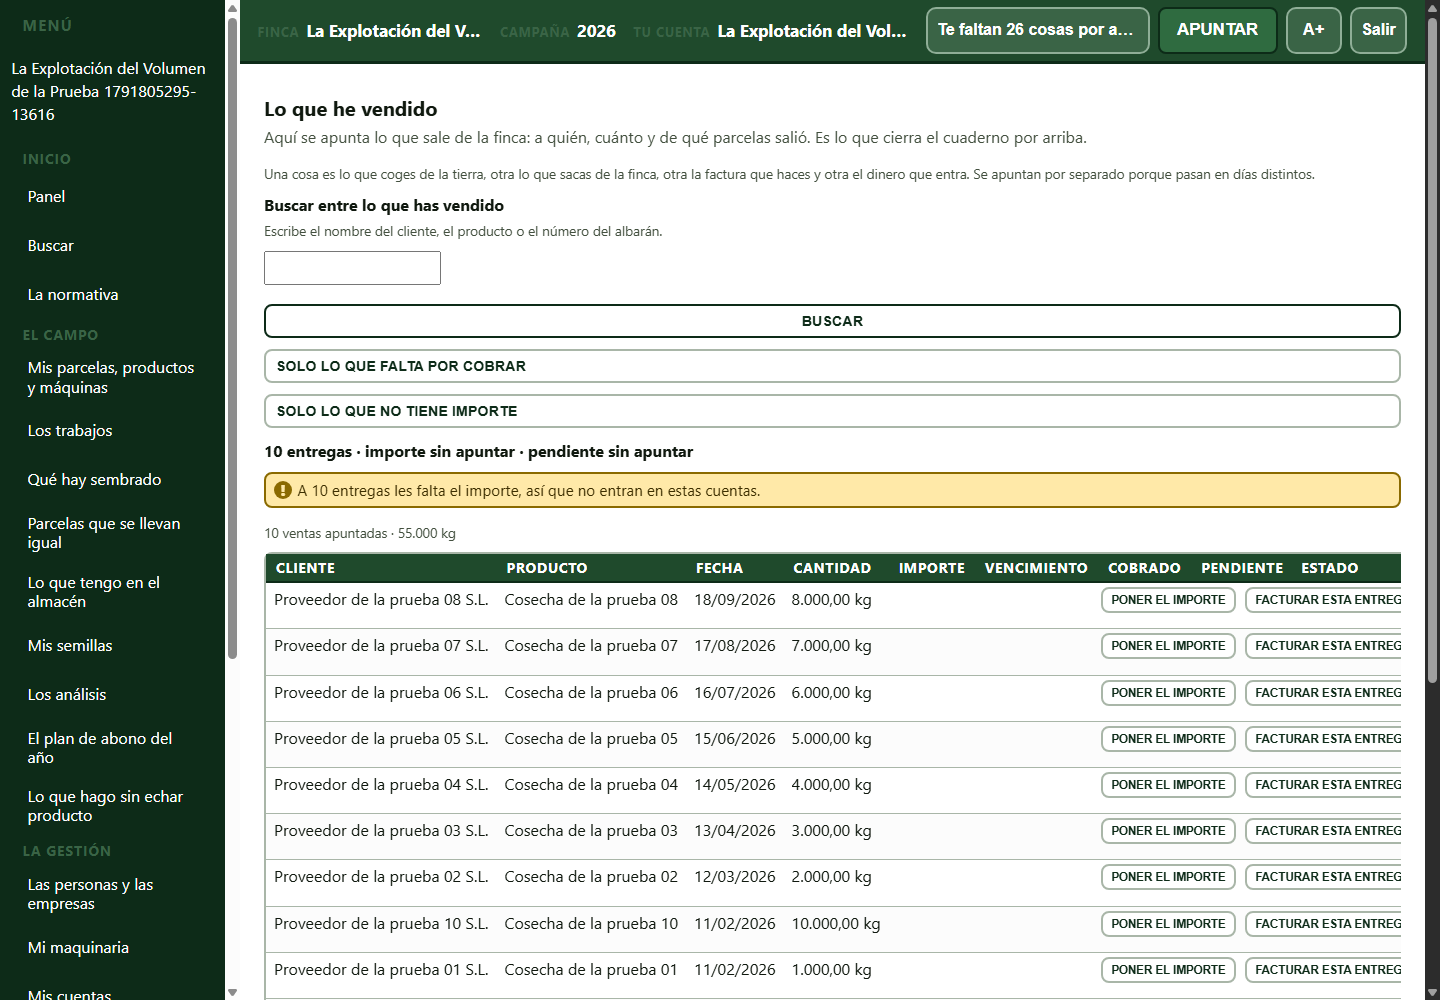
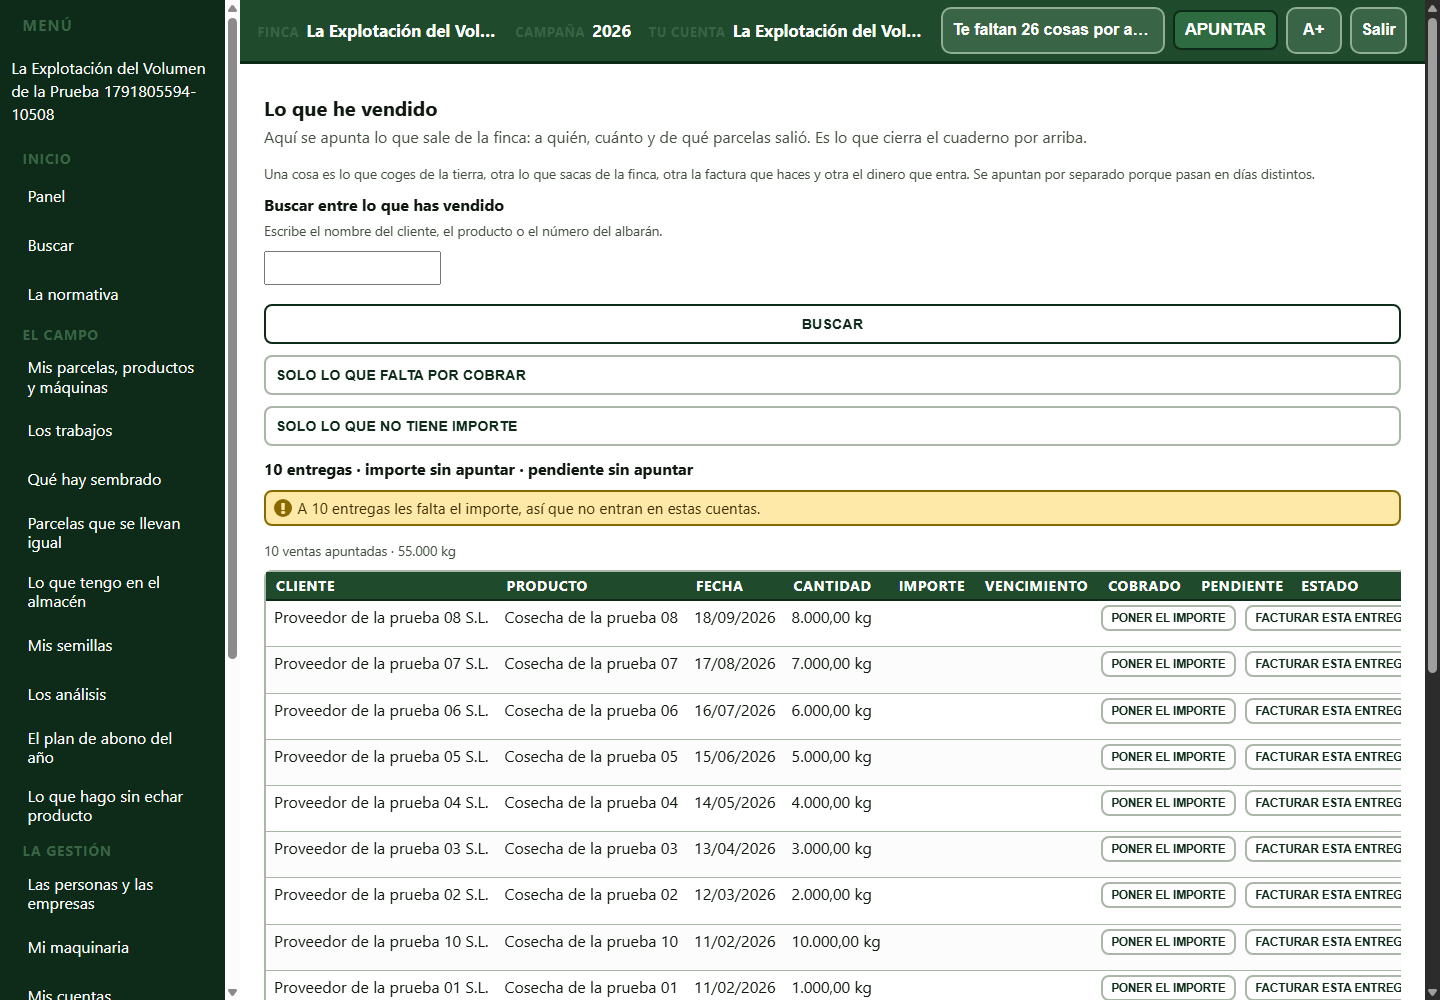
Los botones de la cabecera del marco a 40, el suelo del contrato: median 46,4 porque la regla que los gobierna tiene tres clases y le ganaba a la mia de una. Es la tercera vez hoy que un cambio de CSS no hacia nada por especificidad, y queda escrito en DESIGN.md como regla de trabajo. Con la captura

diff --git a/backend/web/estilos.css b/backend/web/estilos.css
@@ -2628,7 +2628,21 @@ div.tarjeta:active {
 
   .boton-principal,
   .boton.boton-principal {
-    min-height: 38px;
+    /* El mismo suelo de 40 que el resto: la acción principal puede ser más ancha, pero no más baja. */
+    min-height: 40px;
+  }
+
+  /*
+   * **Y los de la cabecera del marco** (11/10/2026): `APUNTAR`, la letra grande y `Salir`. Medían **46,4 px**
+   * después de haber bajado los de la pantalla, y el motivo era el de siempre en este fichero: la regla que
+   * los gobierna es `.marco .barra-acciones .boton`, con **tres clases**, así que le gana a mi `.boton` de una
+   * sola. Se les pone el mismo selector —y por estar al final del fichero, gana— y quedan a 40, el suelo del
+   * contrato.
+   */
+  .marco .barra-acciones .boton {
+    min-height: 40px;
+    padding: 5px 10px;
+    border-width: 2px;
   }
 
   .campo input,

diff --git a/DESIGN.md b/DESIGN.md
@@ -410,8 +410,12 @@ esto vive dentro de su `@media`.
   copiando la densidad de Odoo/Frappe y se han devuelto a 40 al leer este párrafo**: un suelo
   con motivo de accesibilidad no lo rompe el agente por su cuenta, lo rompe el dueño del
   producto si quiere. Sigue siendo mucho más denso que los 46-64 de antes.
-  **Pendiente y medido**: los botones de la cabecera del marco (`Salir`, `A+`, `APUNTAR`)
-  siguen midiendo **46,4 px**; hay que bajarles el suelo y no se ha hecho todavía.
+  **Hecho el mismo día**: los botones de la cabecera del marco (`Salir`, `A+`, `APUNTAR`) medían
+  **46,4 px** y ya están en **40**, el mismo suelo. No bajaban porque la regla que los gobierna
+  (`.marco .barra-acciones .boton`, tres clases) le ganaba por especificidad a la del botón a
+  secas; se les puso su mismo selector, al final del fichero, y cedieron. Es la tercera vez en
+  el mismo día que un cambio de CSS «no hacía nada» por esto: **cuando algo no se mueve, lo
+  primero que hay que mirar es quién gana, no repetir el valor más fuerte.**
 - **Las listas se ven en tabla** (tierras, cuaderno, años, facturas y almacén): cabecera por
   columna —y la cabecera es un botón cuando la columna se puede ordenar—, los números
   alineados a la derecha, las acciones en la última columna y **el total al pie**, que es la
